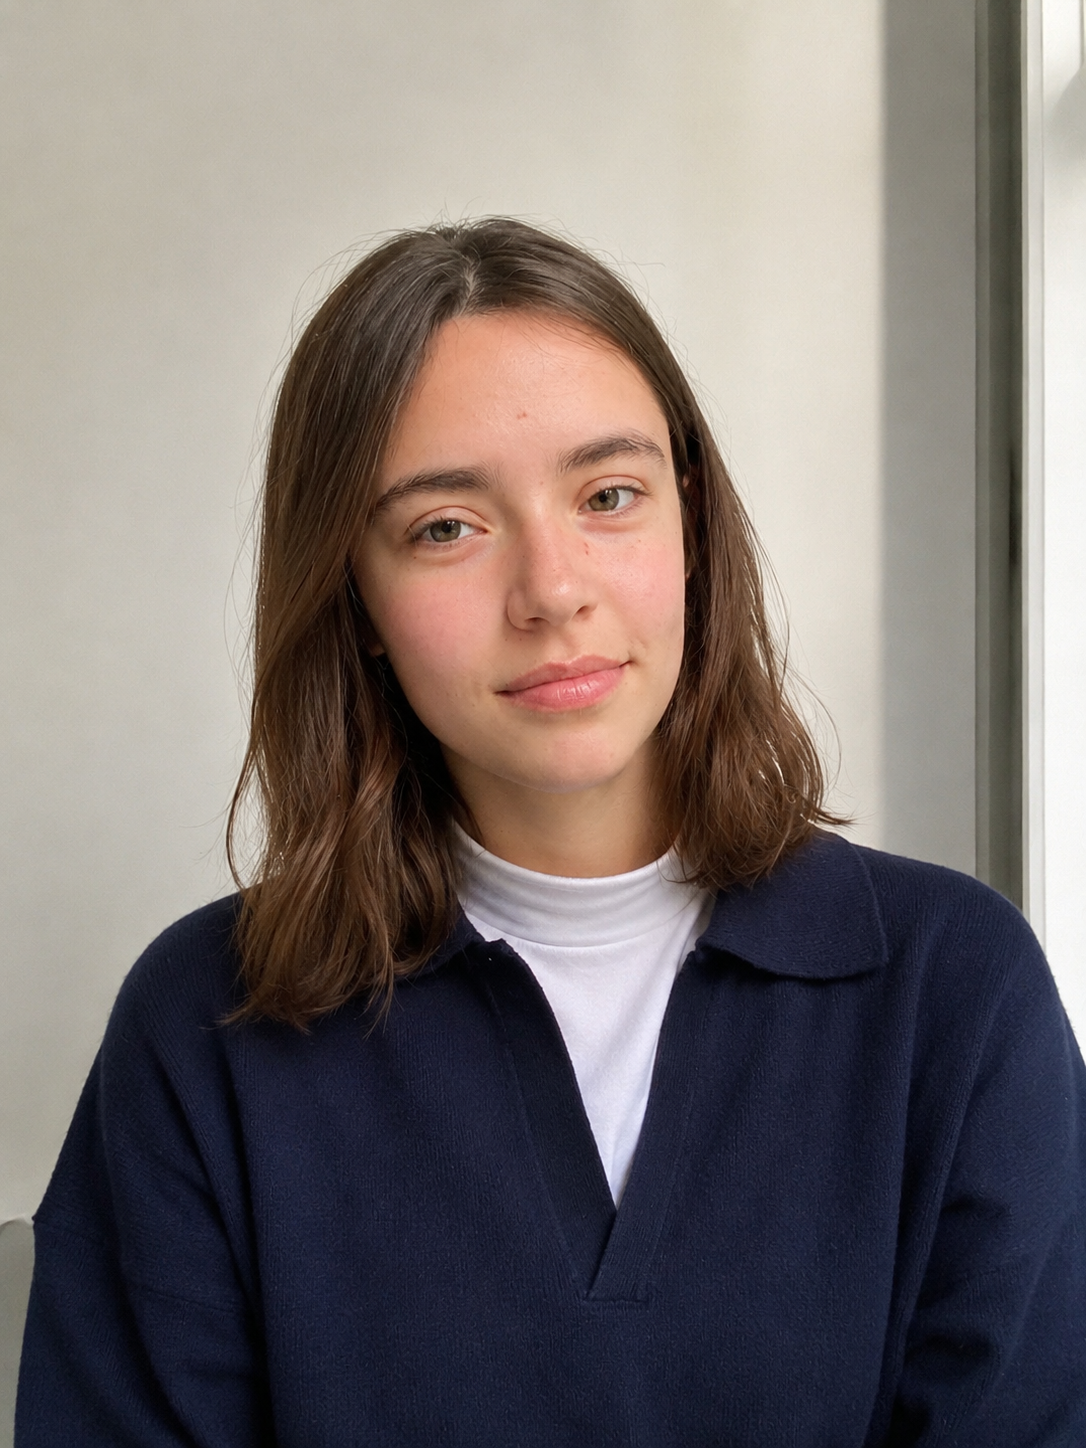
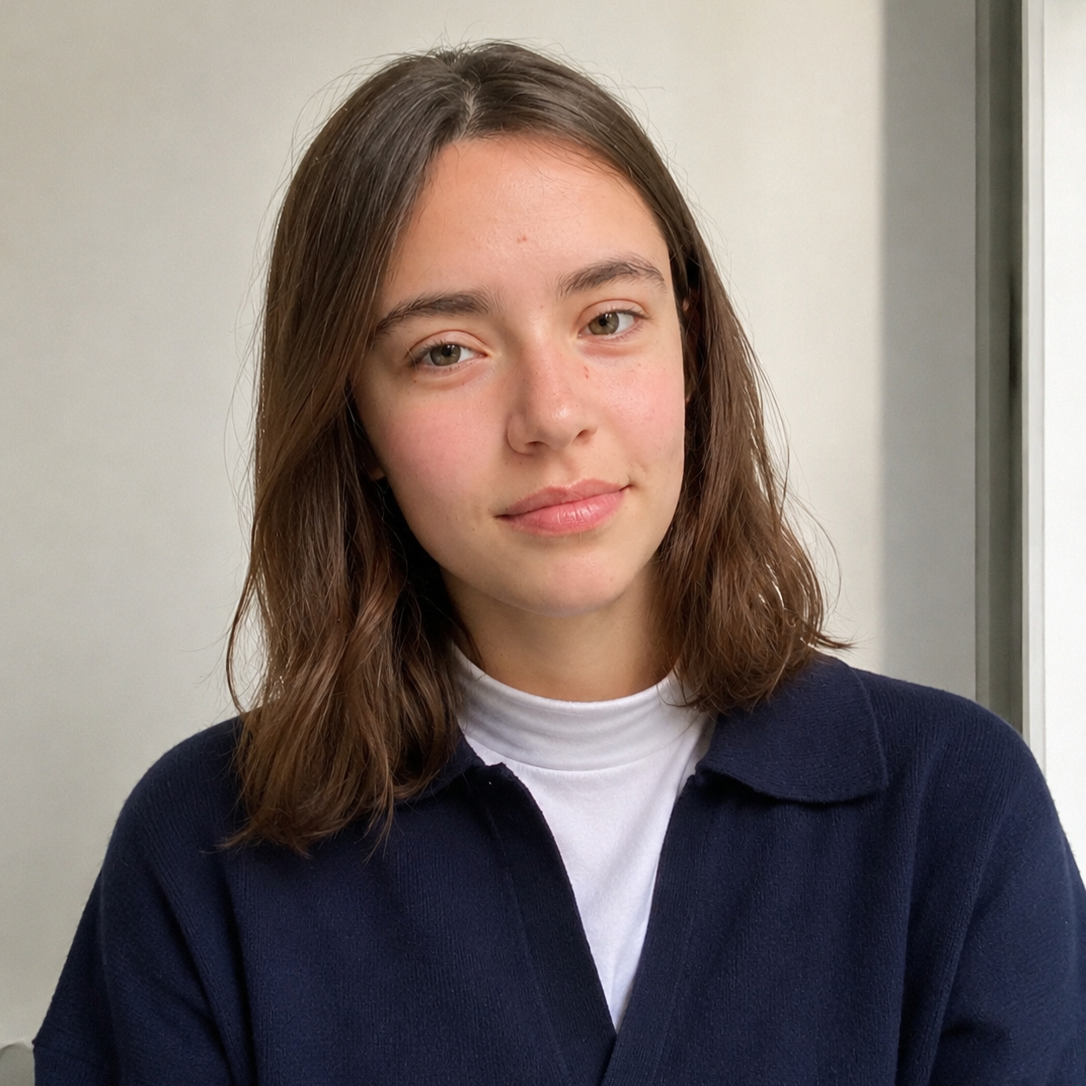
2da corrección

diff --git a/index.html b/index.html
@@ -18,13 +18,11 @@
             </nav>
         </header>
 
-        <main> 
-
-            <section id="cuerpo">
+        <main id="cuerpo"> 
                 
-            <article id="sobre-mi">
-                <img src="imagenes/foto-emilia.png" alt="foto-emilia" width="120px">
-                <h2> Emilia Cerrato Iraola </h2>
+            <section id="sobre-mi">
+                <img src="imagenes/foto-emilia.png" alt="Foto Emilia Cerrato Iraola" width="130" height="130">
+                <h2> Sobre mí </h2>
                 <p> Soy estudiante de los ultimos años de la carrera de Diseño y Comunicación visual. Me considero una persona creativa y capaz de trabajar y desarrollar ideas en equipo. Me gusta estar en constante aprendizaje y rodearme de personas con experiencia, para poder adquirir nuevos conocimientos de ellos. </p>
                 <h3> Datos personales </h3>
                 <ul>
@@ -34,18 +32,21 @@
                     <li> Teléfono: 2226 - 521301 </li> 
                     <li> Mail: emicerrato20@gmail.com </li>
                 </ul>
-            </article>
+            </section>
 
-            <article id="informacion">
-                <h1> Curriculum Vitae </h1>
+            <section id="informacion">
+                <h1> Emilia Cerrato Iraola - CV </h1>
                 <h2> Diseño gráfico - Comunicación visual </h2>
-            
+                
+                <article class="bloque">
                 <h3> Educación </h3>
                     <ul>
                         <li> Secundario: Orientación en Ciencias Naturales - Colegio Las Cañuelas </li>
                         <li> Universitario: Diseño y Comunicación visual - Universidad Nacional de Lanús </li>
                     </ul>
+                </article>
             
+                <article class="bloque">
                 <h3> Habilidades </h3>
                     <h4> Herramientas </h4>
                         <ul>
@@ -61,15 +62,16 @@
                             <li> Diseño de packaging </li>
                             <li> Fotografía y edición </li>
                         </ul>
+                </article>
             
+                <article class="bloque">
                 <h3> Idiomas </h3>
                     <ul> 
                         <li> Español - Nativo </li>
                         <li> Inglés - Nivel B2 </li>
                     </ul>
-            </article>
-
-            </section>
+                </article>
+                </section>
 
         </main>
         <footer>

diff --git a/estilos.css b/estilos.css
@@ -11,15 +11,18 @@ h1 {
     font-size: 4rem;
     font-weight: 700;
     color: rgb(3, 3, 98);
+    line-height: 2vh;
 }
 
 h2 {
+    line-height: 3vh;
     font-family: "Bricolage Grotesque", sans-serif;
     font-size: 2rem;
     color: rgb(3, 3, 98)
 }    
 
 h3 {
+    line-height: 4vh;
     font-family: "Bricolage Grotesque", sans-serif;
     font-size: 1.5rem;
     color: rgb(3, 3, 98);
@@ -60,12 +63,16 @@ nav {
     background-color: rgba(3, 3, 98, 0.478);
     border-radius: 20px;
     height: 95vh;
-    width: 40vh;
-    padding: 30px;
+    width: 20vw;
+    padding: 35px;
 }
 
 #informacion {
     padding-left: 45px;
     border: 0;
     height: 95vh;
+}
+
+.bloque {
+    line-height: 2.5vh;
 }
